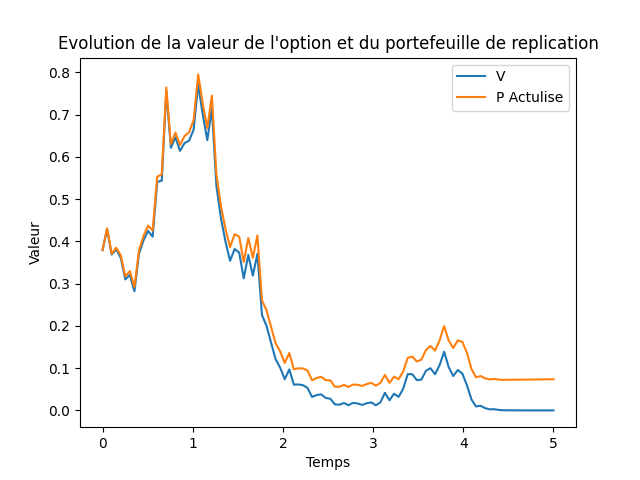
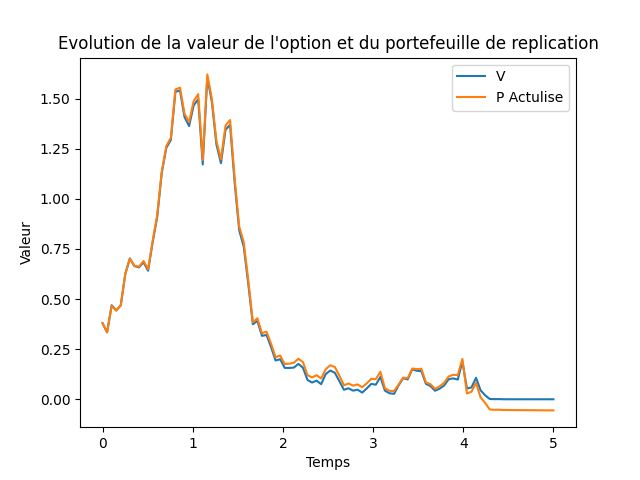
++

diff --git a/ProfitAndLoss.py b/ProfitAndLoss.py
@@ -71,18 +71,18 @@ def portefeuille_NMC(So, r, K, T, N, sigma, Nmc):
     print("Esperance de PL = ", espPL)
     print("Variance de PL = ", varPL)
     # fontion python calcul variance et esperance
-    # print("Esperance de PL = ", np.mean(PL))
-    # print("Variance de PL = ", np.std(PL)**2)
+    print("Esperance de PL = ", np.mean(PL))
+    print("Variance de PL = ", np.std(PL)**2)
     print("Esperance de St = ", espS)
     print("Variance de St = ", varS)
     print("Esperance theorique de St = ", EsperanceTheorique)
     print("Variance theorique de St = ", VarianceTheorique)
 
-    # plt.plot(t, Erreur)
-    # plt.xlabel("Temps")
-    # plt.ylabel("Valeur")
-    # plt.title("Erreur du replicating portfolio")
-    # plt.show()
+    plt.plot(t, Erreur)
+    plt.xlabel("Temps")
+    plt.ylabel("Valeur")
+    plt.title("Erreur du replicating portfolio")
+    plt.show()
 
     return (PL)
 
@@ -134,14 +134,14 @@ def portefeuille_NMC_Freq(So, r, K, T, N, sigma, Nmc, mod):
     # plt.plot(t, V, t, P_actu)
     # plt.show()
     #
-    # plt.plot(t, A, label='A')
-    # plt.plot(t, B, label='B')
-    # plt.xlabel('t')
-    # plt.ylabel('Valeur')
-    # plt.title("ratio de la couverture N trading = 10")
-    # plt.legend()
-    # plt.savefig('Graph\\ratio_de_la_couverture')
-    # plt.show()
+    plt.plot(t, A, label='A')
+    plt.plot(t, B, label='B')
+    plt.xlabel('t')
+    plt.ylabel('Valeur')
+    plt.title("ratio de la couverture N trading = 10")
+    plt.legend()
+    plt.savefig('Graph\\ratio_de_la_couverture')
+    plt.show()
 
     return (PL)
 
@@ -166,20 +166,20 @@ sigma = 0.5
 Nmc = 1000
 t = np.linspace(-0.3, 0.3, 100)
 
-# ProfitandLoss = portefeuille_NMC(So, r, K, T, N, sigma, Nmc)
-# Repartition_Hedging = repartition(100, Nmc, ProfitandLoss)
-# plt.plot(t, Repartition_Hedging, label='hedging chaque dt')
-# plt.xlabel("P&L")
-# plt.ylabel("Valeur")
-# plt.title("Fonction de repartition")
-# plt.savefig('Graph\integral_chaque_dt.png')
-# plt.show()
-# sns.kdeplot(ProfitandLoss, label='hedging chaque dt')
-# plt.xlabel("P&L")
-# plt.ylabel("Valeur")
-# plt.title("Fonction de densite")
-# plt.savefig('Graph\density_chaque_dt.png')
-# plt.show()
+ProfitandLoss = portefeuille_NMC(So, r, K, T, N, sigma, Nmc)
+Repartition_Hedging = repartition(100, Nmc, ProfitandLoss)
+plt.plot(t, Repartition_Hedging, label='hedging chaque dt')
+plt.xlabel("P&L")
+plt.ylabel("Valeur")
+plt.title("Fonction de repartition")
+plt.savefig('Graph\integral_chaque_dt.png')
+plt.show()
+sns.kdeplot(ProfitandLoss, label='hedging chaque dt')
+plt.xlabel("P&L")
+plt.ylabel("Valeur")
+plt.title("Fonction de densite")
+plt.savefig('Graph\density_chaque_dt.png')
+plt.show()
 
 PL10 =portefeuille_NMC_Freq(So, r, K, T, N, sigma, Nmc, 10)
 # Calcul de la VaR
@@ -216,61 +216,62 @@ plt.legend()
 plt.savefig('Graph\integral_chaque_dt+VaR.png')
 plt.show()
 
-# listN = [100, 50, 25, 20, 5, 2, 1]
-# ProfitandLossfreq = [0] * len(listN)
-# VarPL = [0] * len(listN)
-# EspPL = [0] * len(listN)
-# for j in range(len(listN)):
-#     ProfitandLossfreq[j] = portefeuille_NMC_Freq(So, r, K, T, N, sigma, Nmc, N / listN[j])
-#     VarPL[j] = np.std(ProfitandLossfreq[j]) ** 2
-#     EspPL[j] = np.mean(ProfitandLossfreq[j])
-#
-# plt.plot(listN, EspPL)
-# plt.xlabel("N trading")
-# plt.ylabel("Moyenne")
-# plt.title("Moyenne P&L en fonction du nombre de rebalancement")
-# plt.savefig('Graph\Moyenne_P&L_en_fonction_du_nombre_de_rebalancement.png')
-# plt.show()
-# plt.plot(listN, VarPL)
-# plt.xlabel("N trading")
-# plt.ylabel("Variance")
-# plt.title("Variance P&L en fonction du nombre de rebalancement")
-# plt.savefig('Graph\Variance_P&L_en_fonction_du_nombre_de_rebalancement.png')
-# plt.show()
+listN = [100, 50, 25, 20, 5, 2, 1]
+ProfitandLossfreq = [0] * len(listN)
+VarPL = [0] * len(listN)
+EspPL = [0] * len(listN)
+for j in range(len(listN)):
+    ProfitandLossfreq[j] = portefeuille_NMC_Freq(So, r, K, T, N, sigma, Nmc, N / listN[j])
+    VarPL[j] = np.std(ProfitandLossfreq[j]) ** 2
+    EspPL[j] = np.mean(ProfitandLossfreq[j])
 
-# ProfitandLoss1 = portefeuille_NMC_Freq(So, r, K, T, N, sigma, Nmc, 2)
-# ProfitandLoss2 = portefeuille_NMC_Freq(So, r, K, T, N, sigma, Nmc, 4)
-#
-# Repartition_Hedging = repartition(100, Nmc, ProfitandLoss)
-# Repartition_Hedging1 = repartition(100, Nmc, ProfitandLoss1)
-# Repartition_Hedging2 = repartition(100, Nmc, ProfitandLoss2)
-# plt.plot(t, Repartition_Hedging, label='hedging chaque dt')
-# plt.plot(t, Repartition_Hedging1, label='1 fois sur 2')
-# plt.plot(t, Repartition_Hedging2, label='1 fois sur 4')
-# plt.xlabel("P&L")
-# plt.ylabel("Valeur")
-# plt.title("Fonction de repartiton")
-# plt.legend()
-# plt.savefig('Graph\density.png')
-# plt.show()
-#
-# sns.kdeplot(ProfitandLoss, label='hedging chaque dt')
-# sns.kdeplot(ProfitandLoss1, label='1 fois sur 2')
-# sns.kdeplot(ProfitandLoss2, label='1 fois sur 4')
-# plt.xlabel("P&L")
-# plt.ylabel("Valeur")
-# plt.title("Fonction de densite")
-# plt.legend()
-# plt.savefig('Graph\integral.png')
-# plt.show()
-#
-# # Calcul de la VaR
-#
-# alpha = 0.1
-#
-# Index = floor(alpha * Nmc)
-# VaR = ProfitandLoss[Index]
-#
-# stats.probplot(ProfitandLoss, dist="norm", plot=pylab)
-# pylab.show()
-# print("Value at Risk =", VaR)
+plt.plot(listN, EspPL)
+plt.xlabel("N trading")
+plt.ylabel("Moyenne")
+plt.title("Moyenne P&L en fonction du nombre de rebalancement")
+plt.savefig('Graph\Moyenne_P&L_en_fonction_du_nombre_de_rebalancement.png')
+plt.show()
+plt.plot(listN, VarPL)
+plt.xlabel("N trading")
+plt.ylabel("Variance")
+plt.title("Variance P&L en fonction du nombre de rebalancement")
+plt.savefig('Graph\Variance_P&L_en_fonction_du_nombre_de_rebalancement.png')
+plt.show()
+
+ProfitandLoss1 = portefeuille_NMC_Freq(So, r, K, T, N, sigma, Nmc, 2)
+ProfitandLoss2 = portefeuille_NMC_Freq(So, r, K, T, N, sigma, Nmc, 4)
+
+Repartition_Hedging = repartition(100, Nmc, ProfitandLoss)
+Repartition_Hedging1 = repartition(100, Nmc, ProfitandLoss1)
+Repartition_Hedging2 = repartition(100, Nmc, ProfitandLoss2)
+plt.plot(t, Repartition_Hedging, label='hedging chaque dt')
+plt.plot(t, Repartition_Hedging1, label='1 fois sur 2')
+plt.plot(t, Repartition_Hedging2, label='1 fois sur 4')
+plt.xlabel("P&L")
+plt.ylabel("Valeur")
+plt.title("Fonction de repartiton")
+plt.legend()
+plt.savefig('Graph\density.png')
+plt.show()
+
+sns.kdeplot(ProfitandLoss, label='hedging chaque dt')
+sns.kdeplot(ProfitandLoss1, label='1 fois sur 2')
+sns.kdeplot(ProfitandLoss2, label='1 fois sur 4')
+plt.xlabel("P&L")
+plt.ylabel("Valeur")
+plt.title("Fonction de densite")
+plt.legend()
+plt.savefig('Graph\integral.png')
+plt.show()
+
+# Calcul de la VaR
+
+alpha = 0.1
+
+Index = floor(alpha * Nmc)
+VaR = ProfitandLoss[Index]
+
+stats.probplot(ProfitandLoss, dist="norm", plot=pylab)
+plt.savefig("Graph\quantile.png")
+pylab.show()
+print("Value at Risk =", VaR)

diff --git a/Hedging.py b/Hedging.py
@@ -31,7 +31,7 @@ def portefeuille(So, r, K, T, N, sigma):
         Erreur[i + 1] = P_actu[i + 1] - V[i + 1]
 
     plt.plot(t, V, label="V")
-    plt.plot(t,P_actu, label="P Actulise")
+    plt.plot(t, P_actu, label="P Actulise")
     plt.xlabel("Temps")
     plt.ylabel("Valeur")
     plt.title("Evolution de la valeur de l'option et du portefeuille de replication")
@@ -63,6 +63,62 @@ def portefeuille(So, r, K, T, N, sigma):
     PL = V[N - 1] - P[N - 1]
     return PL
 
+
+def portefeuille_replique_option(So, r, K, T, N, sigma):
+    dt = T / N
+    t = np.linspace(0, T, N)
+    S = [So] * N
+    A = [Bs.Delta(0, So, K, T, r, sigma)] * N
+    V = [Bs.BS_CALL(0, S[0], K, T, r, sigma)] * N
+    B = [V[0] - A[0] * S[0]] * N
+    P = [V[0]] * N
+    P_actu = [V[0]] * N
+    W = [(A[0] * S[0]) / P_actu[0]] * N
+    Erreur = [0] * N
+
+    for i in range(0, N - 1):
+        S[i + 1] = S[i] * np.exp((r - sigma ** 2 / 2) * dt + sigma * np.sqrt(dt) * np.random.normal())
+        A[i + 1] = Bs.Delta(t[i + 1], S[i + 1], K, T, r, sigma)
+        B[i + 1] = (A[i] - A[i + 1]) * S[i + 1] + B[i] * (1 + r * dt)
+        P[i + 1] = A[i + 1] * S[i + 1] + B[i + 1]
+        V[i + 1] = Bs.BS_CALL(t[i + 1], S[i + 1], K, T, r, sigma)
+        P_actu[i + 1] = P[i + 1] - (P[0] - V[0]) * np.exp(r * t[i + 1])
+        W[i + 1] = (A[i + 1] * S[i + 1]) / P_actu[i + 1]
+        Erreur[i + 1] = P_actu[i + 1] - V[i + 1]
+
+    plt.plot(t, V, label="V")
+    plt.plot(t, P_actu, label="P Actulise")
+    plt.xlabel("Temps")
+    plt.ylabel("Valeur")
+    plt.title("Evolution de la valeur de l'option et du portefeuille de replication")
+    plt.savefig('Graph\Evolution_de_la_valeur_de_l_option_et_du_portefeuille_de_replication_replique_option')
+    plt.show()
+
+    plt.plot(t, A, label="A")
+    plt.plot(t, B, label="B")
+    plt.xlabel("Temps")
+    plt.ylabel("Valeur")
+    plt.title("Evolution de la quantité d'option et de la valeur du cash")
+    plt.legend()
+    plt.savefig('Graph\Evolution_de_la_quantité_d_option_et_de_la_valeur_du_cash_replique_option')
+    plt.show()
+
+    plt.plot(t, Erreur)
+    plt.xlabel("Temps")
+    plt.ylabel("Valeur")
+    plt.title("Erreur du portefeuille de replication")
+
+    plt.savefig('Graph\Erreur_du_portefeuille_de_replication_replique_option')
+    plt.show()
+
+    plt.plot(t, W)
+    plt.xlabel("Temps")
+    plt.ylabel("W")
+    plt.show()
+    PL = V[N - 1] - P[N - 1]
+    return PL
+
+
 So = 1
 r = 0.05
 K = 1.5
@@ -70,5 +126,4 @@ T = 5
 sigma = 0.5
 N = 100
 portefeuille(So, r, K, T, N, sigma)
-
-
+portefeuille_replique_option(So, r, K, T, N, sigma)
